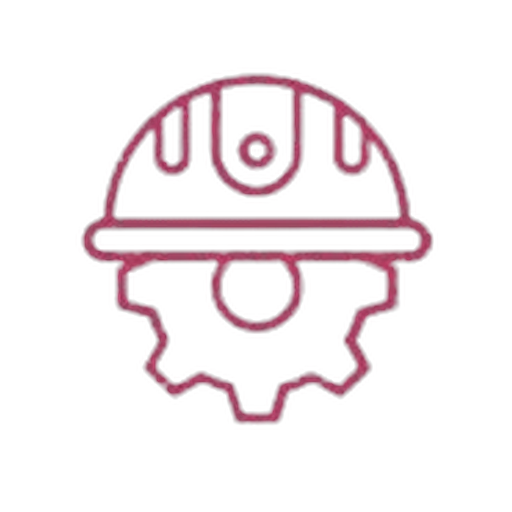
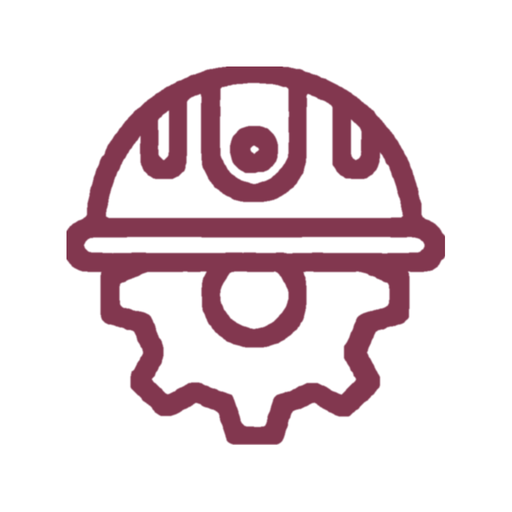
Upload files via ZiptoGit

Changed region(s): [[0.125, 0.125, 0.875, 0.875]]

diff --git a/src/app/sitemap.ts b/src/app/sitemap.ts
@@ -1,52 +1,53 @@
 import type { MetadataRoute } from "next";
+import { SITE_URL } from "@/lib/seo";
 import { quoteServices } from "@/lib/quoteServices";
-import { abs } from "@/lib/seo";
 
-// Bump this date whenever page content meaningfully changes. A stable date is
-// a better signal to Google than a new timestamp on every build.
-const CONTENT_UPDATED = new Date("2026-10-01");
+// Served at /sitemap.xml. Built from the same SITE_URL as robots.ts and the
+// canonical tags, so the sitemap host can never drift from the live domain.
+// Update this date when page content meaningfully changes.
+const LAST_MODIFIED = new Date("2026-10-03");
 
-type Entry = MetadataRoute.Sitemap[number];
+type Entry = {
+  path: string;
+  changeFrequency: NonNullable<MetadataRoute.Sitemap[number]["changeFrequency"]>;
+  priority: number;
+};
+
+const pages: Entry[] = [
+  { path: "/", changeFrequency: "weekly", priority: 1.0 },
+
+  { path: "/services", changeFrequency: "monthly", priority: 0.9 },
+  { path: "/services/solar", changeFrequency: "monthly", priority: 0.9 },
+  { path: "/services/cctv", changeFrequency: "monthly", priority: 0.9 },
+  { path: "/services/automation", changeFrequency: "monthly", priority: 0.9 },
+  { path: "/services/smart-home", changeFrequency: "monthly", priority: 0.9 },
+
+  { path: "/packages", changeFrequency: "monthly", priority: 0.8 },
+  // One page per service slug (solar, cctv, automation, smart-home)
+  ...quoteServices.map((s) => ({
+    path: `/packages/${s.slug}`,
+    changeFrequency: "monthly" as const,
+    priority: 0.8,
+  })),
+
+  { path: "/projects", changeFrequency: "weekly", priority: 0.7 },
+  { path: "/reviews", changeFrequency: "weekly", priority: 0.7 },
+  { path: "/about", changeFrequency: "monthly", priority: 0.6 },
+  { path: "/contact", changeFrequency: "yearly", priority: 0.7 },
+  { path: "/get-quote", changeFrequency: "yearly", priority: 0.7 },
+
+  { path: "/privacy-policy", changeFrequency: "yearly", priority: 0.3 },
+  { path: "/terms-and-conditions", changeFrequency: "yearly", priority: 0.3 },
+  { path: "/warranty", changeFrequency: "yearly", priority: 0.3 },
+  { path: "/refund-cancellation", changeFrequency: "yearly", priority: 0.3 },
+  // /get-quote/<service> pages are intentionally left out: they are noindex form pages.
+];
 
 export default function sitemap(): MetadataRoute.Sitemap {
-  const e = (
-    path: string,
-    priority: number,
-    changeFrequency: Entry["changeFrequency"],
-    images?: string[],
-  ): Entry => ({
-    url: abs(path === "/" ? "" : path) || abs("/"),
-    lastModified: CONTENT_UPDATED,
+  return pages.map(({ path, changeFrequency, priority }) => ({
+    url: path === "/" ? `${SITE_URL}/` : `${SITE_URL}${path}`,
+    lastModified: LAST_MODIFIED,
     changeFrequency,
     priority,
-    ...(images ? { images: images.map(abs) } : {}),
-  });
-
-  return [
-    e("/", 1, "weekly", ["/images/hero-panels.jpg"]),
-
-    // Core service pages (highest commercial value)
-    e("/services", 0.9, "monthly"),
-    e("/services/solar", 0.9, "monthly", ["/images/solar-inverters-growatt.jpg"]),
-    e("/services/cctv", 0.9, "monthly", ["/images/cctv-cube-camera-wall.jpg"]),
-    e("/services/automation", 0.9, "monthly", ["/images/electrical-automation-team.jpg"]),
-    e("/services/smart-home", 0.9, "monthly", ["/images/smart-home-automation.jpg"]),
-
-    // Pricing / packages
-    e("/packages", 0.8, "monthly"),
-    ...quoteServices.map((s) => e(`/packages/${s.slug}`, 0.8, "monthly")),
-
-    // Trust & conversion pages
-    e("/projects", 0.7, "weekly"),
-    e("/reviews", 0.7, "weekly"),
-    e("/about", 0.6, "monthly"),
-    e("/contact", 0.7, "yearly"),
-    e("/get-quote", 0.7, "yearly"),
-
-    // Legal
-    e("/privacy-policy", 0.3, "yearly"),
-    e("/terms-and-conditions", 0.3, "yearly"),
-    e("/warranty", 0.3, "yearly"),
-    e("/refund-cancellation", 0.3, "yearly"),
-  ];
+  }));
 }

diff --git a/src/app/layout.tsx b/src/app/layout.tsx
@@ -86,15 +86,22 @@ export const metadata: Metadata = {
     description: site.description,
     images: [DEFAULT_OG_IMAGE],
   },
+  // Favicons live in /public. Google Search only uses favicons whose size is a
+  // multiple of 48px (48, 96, 144, 192...), so those are listed explicitly.
+  // The ?v= suffix busts browser/CDN caches after the icon is replaced - bump it
+  // whenever the logo files change.
   icons: {
     icon: [
-      { url: "/favicon.ico", sizes: "any" },
-      { url: "/favicon-16x16.png", type: "image/png", sizes: "16x16" },
-      { url: "/favicon-32x32.png", type: "image/png", sizes: "32x32" },
-      { url: "/android-chrome-192x192.png", type: "image/png", sizes: "192x192" },
-      { url: "/android-chrome-512x512.png", type: "image/png", sizes: "512x512" },
+      { url: "/favicon.ico?v=2", sizes: "any" },
+      { url: "/favicon-16x16.png?v=2", type: "image/png", sizes: "16x16" },
+      { url: "/favicon-32x32.png?v=2", type: "image/png", sizes: "32x32" },
+      { url: "/favicon-48x48.png?v=2", type: "image/png", sizes: "48x48" },
+      { url: "/favicon-96x96.png?v=2", type: "image/png", sizes: "96x96" },
+      { url: "/android-chrome-192x192.png?v=2", type: "image/png", sizes: "192x192" },
+      { url: "/android-chrome-512x512.png?v=2", type: "image/png", sizes: "512x512" },
     ],
-    apple: [{ url: "/apple-touch-icon.png", sizes: "180x180" }],
+    shortcut: [{ url: "/favicon.ico?v=2" }],
+    apple: [{ url: "/apple-touch-icon.png?v=2", sizes: "180x180" }],
   },
   manifest: "/site.webmanifest",
   category: "Solar Energy Installation",

diff --git a/next.config.ts b/next.config.ts
@@ -18,10 +18,6 @@ const nextConfig: NextConfig = {
         ],
       },
       {
-        source: "/sitemap.xml",
-        headers: [{ key: "Content-Type", value: "application/xml; charset=utf-8" }],
-      },
-      {
         // Long-cache static media so repeat visits (and Core Web Vitals) stay fast.
         source: "/images/:path*",
         headers: [{ key: "Cache-Control", value: "public, max-age=2592000, stale-while-revalidate=86400" }],

diff --git a/SEO-NOTES.md b/SEO-NOTES.md
@@ -9,12 +9,12 @@
 ## Google Search Console
 1. Add a property (Domain via DNS is best, or URL-prefix with the exact live URL).
 2. If using the HTML-tag method, put the token in `NEXT_PUBLIC_GSC_VERIFICATION` and redeploy.
-3. Sitemaps > submit `sitemap.xml`.
+3. Sitemaps > submit `sitemap.xml` (generated by `src/app/sitemap.ts`; there is no static file in `/public` any more).
 4. URL Inspection > Request indexing for: `/`, `/services/solar`, `/services/cctv`,
    `/services/automation`, `/services/smart-home`.
 
 ## What was added
-- Complete `sitemap.xml` (20 URLs incl. service and package pages) with stable lastModified.
+- Complete `sitemap.xml` (20 URLs incl. service and package pages) generated from `src/app/sitemap.ts` using `SITE_URL`, so it always matches robots.txt and the canonicals.
 - `robots.txt` without the deprecated `host` line; `/get-quote/<service>` forms are `noindex,follow`.
 - Unique keyword-targeted title + description + canonical + Open Graph/Twitter per page
   (fixed the duplicated "| NMC Technology | NMC Technology" titles).
@@ -28,3 +28,9 @@
 - Get real reviews on Google and link to them; then add review markup only for genuine, visible reviews.
 - Publish helpful content (e.g. "how to size a solar inverter in Nigeria") and earn local backlinks.
 - Add descriptive alt text to gallery photos and hero images where `alt=""` is used for content images.
+
+## Favicon
+- Icons live in `/public` (`favicon.ico` with 16/32/48, plus 16/32/48/96/180/192/512 PNGs) and are wired up in
+  the `icons` block of `src/app/layout.tsx`. Google needs a square favicon whose size is a multiple of 48px.
+- After replacing the logo, bump the `?v=2` suffix in `layout.tsx` and `site.webmanifest`.
+- Google refreshes favicons slowly (days to a few weeks). Use URL Inspection > Request indexing on the homepage to speed it up.
